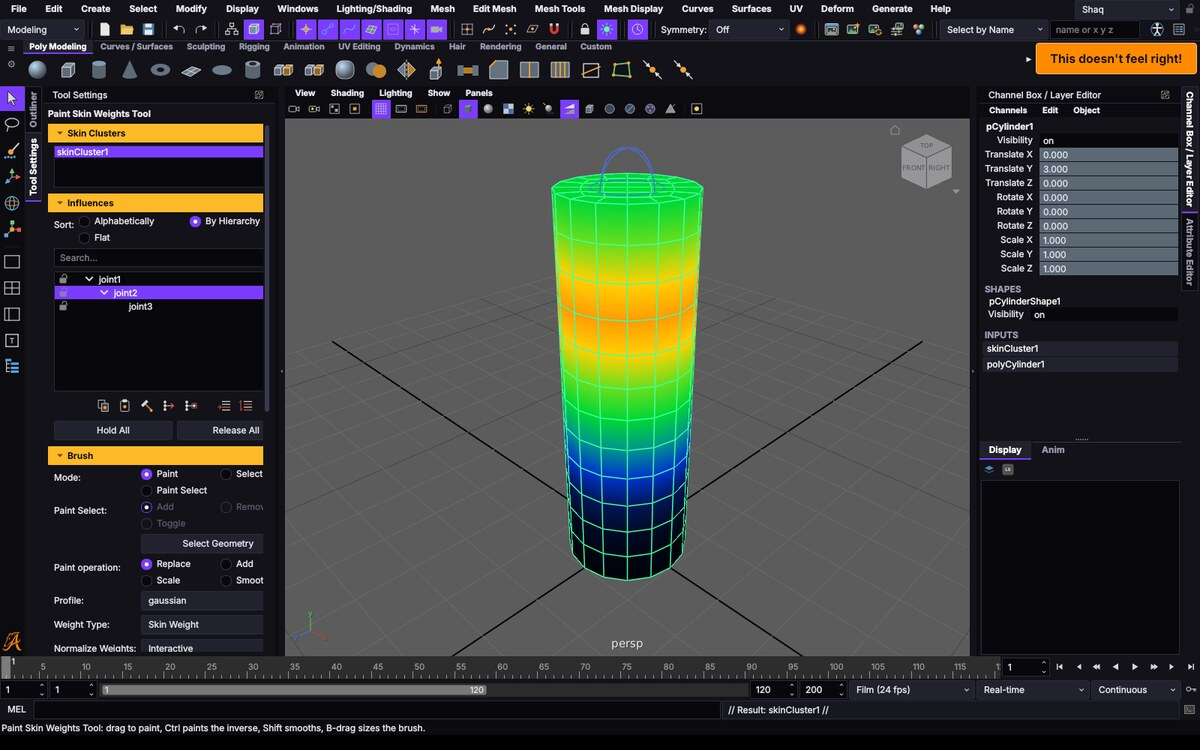
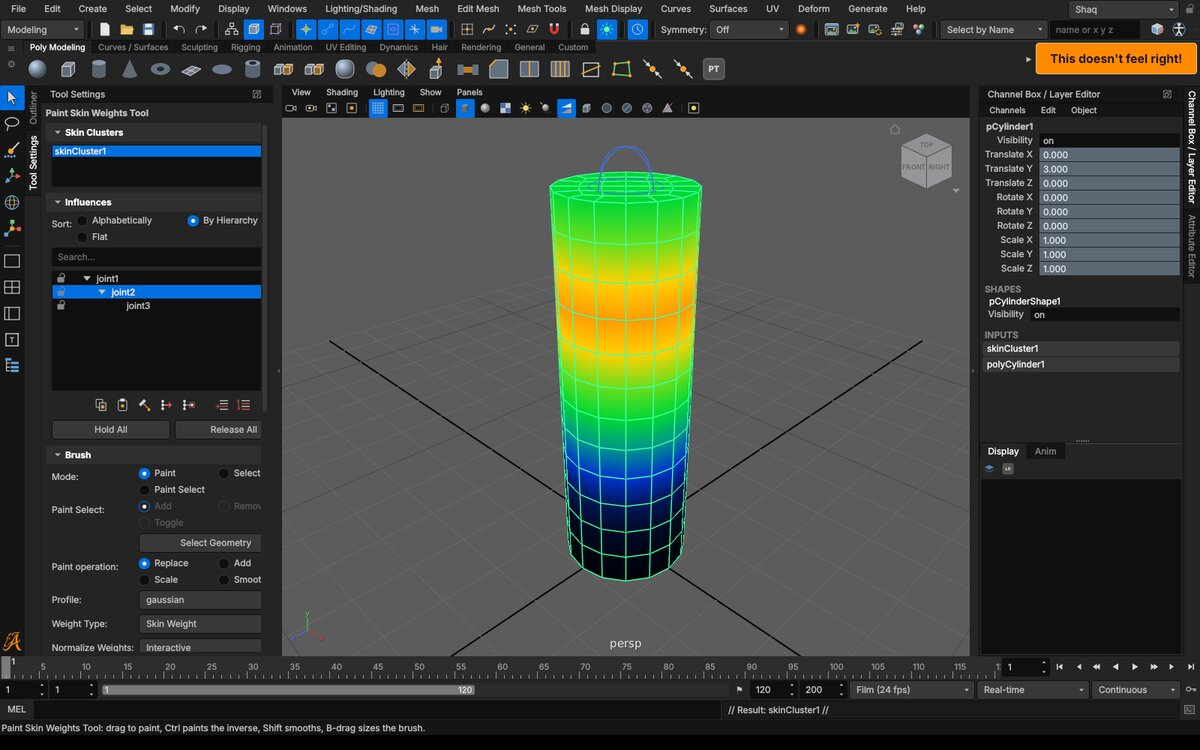
Themes renamed: TDI, Wavefront, Gibson, Krieger, Novacek, Kovacs, Hall, Keating, Hourcade, Nicolas, Stam, Buxton, Kurtenbach; Flav back to the first Carbon, Sebdvvv back to Studio 96, Shaq after Unreal Engine 5, DonnieAlex after Blender, AshT after Hello Kitty; README theme tables and screenshots

diff --git a/app/src/themes.cpp b/app/src/themes.cpp
@@ -145,9 +145,17 @@ QList<Theme> builtins() {
         t.c["border"] = QColor("#1f2a2e");
         l << t;
     }
-    // Flav: charcoal with tangerine, a geometric typeface, bold menus, borderless pills with big round corners.
+    // Flav: the first Carbon, blue-grey charcoal with teal, round corners and pill tabs.
     {
-        Theme t = tonal("carbon", "Flav", 20, 0.06, 13, "#ff7a1a");
+        Theme t = tonal("carbon", "Flav", 200, 0.04, 13, "#2fa59a");
+        t.radius = 8;
+        t.tabs = "pill";
+        t.padding = 4;
+        l << t;
+    }
+    // Kurtenbach: charcoal with tangerine, a geometric typeface, bold menus, borderless pills with big round corners.
+    {
+        Theme t = tonal("tangerine", "Kurtenbach", 20, 0.06, 13, "#ff7a1a");
         t.font = QStringList{"Montserrat", "Poppins", "Futura", "Century Gothic", "Avenir Next", "Avenir", "URW Gothic", "Gill Sans", "Verdana"};
         t.point_size = 9;
         t.menu_bold = true;
@@ -161,9 +169,9 @@ QList<Theme> builtins() {
         t.c["hitext"] = QColor("#1a0d00");
         l << t;
     }
-    // KevinP: deep navy and gold, serif type with italic menus, round-topped tabs, gold-lettered section bars.
+    // Kovacs: deep navy and gold, serif type with italic menus, round-topped tabs, gold-lettered section bars.
     {
-        Theme t = tonal("midnight", "KevinP", 226, 0.5, 13, "#f2c14e");
+        Theme t = tonal("midnight", "Kovacs", 226, 0.5, 13, "#f2c14e");
         t.font = QStringList{"Georgia", "Charter", "Iowan Old Style", "Palatino Linotype", "Palatino", "Noto Serif", "DejaVu Serif", "Liberation Serif", "Times New Roman"};
         t.point_size = 10;
         t.menu_italic = true;
@@ -178,9 +186,28 @@ QList<Theme> builtins() {
         t.c["sectiontext"] = QColor("#f2c14e");
         l << t;
     }
-    // Shaq: near-black with a bold electric violet and gold, heavy section bars, crisp corners and bold menus.
+    // Shaq: the game engine editor of the 2020s in its dark scheme: near-black recessed panels, charcoal panels and
+    // headers, black entry fields, its bright blue for what is picked, Roboto, small round corners.
     {
         Theme t = hand("shaq", "Shaq",
+                       {{"window", "#242424"}, {"chrome", "#151515"}, {"base", "#0f0f0f"}, {"alt", "#1a1a1a"}, {"menu", "#1a1a1a"}, {"button", "#383838"}, {"hover", "#575757"},
+                        {"hi", "#0070e0"}, {"hitext", "#ffffff"}, {"text", "#c0c0c0"}, {"bright", "#ffffff"}, {"dim", "#808080"}, {"disabled", "#585858"}, {"border", "#0f0f0f"},
+                        {"handle", "#383838"}, {"section", "#2f2f2f"}, {"sectiontext", "#ffffff"}, {"light", "#444444"}, {"shadow", "#0a0a0a"},
+                        {"field", "#0f0f0f"}, {"fieldtext", "#c0c0c0"}});
+        t.font = QStringList{"Roboto", "Inter", "Segoe UI", "Noto Sans", "DejaVu Sans", "Arial"};
+        t.point_size = 9;
+        t.fill = "flat";
+        t.radius = 4;
+        t.border = 1;
+        t.tabs = "boxed";
+        t.arrows = "triangle";
+        t.scrollbar = "thin";
+        t.padding = 4;
+        l << t;
+    }
+    // Nicolas: near-black with a bold electric violet and gold, heavy section bars, crisp corners and bold menus.
+    {
+        Theme t = hand("violet", "Nicolas",
                        {{"window", "#121218"}, {"chrome", "#0b0b10"}, {"base", "#08080c"}, {"alt", "#17171f"}, {"menu", "#1a1a24"}, {"button", "#22222e"}, {"hover", "#2e2e3e"},
                         {"hi", "#7b3cff"}, {"hitext", "#ffffff"}, {"text", "#e6e6f0"}, {"bright", "#ffffff"}, {"dim", "#9a9ab0"}, {"disabled", "#55556a"}, {"border", "#2a2a3a"},
                         {"handle", "#3a3a50"}, {"section", "#fdb927"}, {"sectiontext", "#0b0b10"}, {"light", "#3a3a4e"}, {"shadow", "#000000"}});
@@ -193,11 +220,11 @@ QList<Theme> builtins() {
         t.padding = 4;
         l << t;
     }
-    // Martino: after Softimage XSI. Mid grey panels with darker header bars, light grey buttons with rounded corners, a
+    // TDI: after Softimage XSI. Mid grey panels with darker header bars, light grey buttons with rounded corners, a
     // soft top-to-bottom shade and a dark outline, pale grey fields with black type, rounded property page tabs, bold
     // black section labels on a darker bar, a pale blue for what is picked, Tahoma at 8 points.
     {
-        Theme t = hand("martino", "Martino",
+        Theme t = hand("martino", "TDI",
                        {{"window", "#a8a8a8"}, {"chrome", "#8e8e8e"}, {"base", "#d0d0d0"}, {"alt", "#c4c4c4"}, {"menu", "#c0c0c0"}, {"button", "#c6c6c6"}, {"hover", "#d6d6d6"},
                         {"hi", "#8fb0d9"}, {"hitext", "#000000"}, {"text", "#000000"}, {"bright", "#000000"}, {"dim", "#333333"}, {"disabled", "#707070"}, {"border", "#4c4c4c"},
                         {"handle", "#bcbcbc"}, {"section", "#8a8a8a"}, {"sectiontext", "#000000"}, {"light", "#e4e4e4"}, {"shadow", "#5c5c5c"},
@@ -215,9 +242,9 @@ QList<Theme> builtins() {
         t.padding = 2;
         l << t;
     }
-    // Boisvert: the Dracula scheme as its author publishes it (MIT), pink highlights, purple section bars, rounded type and very round corners.
+    // Keating: the Dracula scheme as its author publishes it (MIT), pink highlights, purple section bars, rounded type and very round corners.
     {
-        Theme t = hand("dracula", "Boisvert",
+        Theme t = hand("dracula", "Keating",
                        {{"window", "#282a36"}, {"chrome", "#21222c"}, {"base", "#1b1c24"}, {"alt", "#2c2e3c"}, {"menu", "#343746"}, {"button", "#44475a"}, {"hover", "#565a72"},
                         {"hi", "#ff79c6"}, {"hitext", "#1b1c24"}, {"text", "#f8f8f2"}, {"bright", "#ffffff"}, {"dim", "#a0a5c4"}, {"disabled", "#6272a4"}, {"border", "#16171e"},
                         {"handle", "#5a5e78"}, {"section", "#bd93f9"}, {"sectiontext", "#1b1c24"}});
@@ -250,9 +277,9 @@ QList<Theme> builtins() {
         t.padding = 2;
         l << t;
     }
-    // JGibson: deep forest green and lime, a humanist typeface, soft gradients.
+    // Gibson: deep forest green and lime, a humanist typeface, soft gradients.
     {
-        Theme t = tonal("graphite", "JGibson", 145, 0.32, 13, "#9be15d");
+        Theme t = tonal("graphite", "Gibson", 145, 0.32, 13, "#9be15d");
         t.font = QStringList{"Lato", "Open Sans", "Source Sans 3", "Source Sans Pro", "Fira Sans", "Calibri", "Noto Sans", "DejaVu Sans"};
         t.point_size = 9;
         t.fill = "gradient";
@@ -267,9 +294,9 @@ QList<Theme> builtins() {
         t.c["sectiontext"] = QColor("#c8f59e");
         l << t;
     }
-    // MNovacek: the Nord scheme as its author publishes it (MIT): frost blues, a geometric typeface, borderless, round-topped tabs.
+    // Novacek: the Nord scheme as its author publishes it (MIT): frost blues, a geometric typeface, borderless, round-topped tabs.
     {
-        Theme t = hand("nord", "MNovacek",
+        Theme t = hand("nord", "Novacek",
                        {{"window", "#3b4252"}, {"chrome", "#323946"}, {"base", "#2e3440"}, {"alt", "#3f4758"}, {"menu", "#434c5e"}, {"button", "#4c566a"}, {"hover", "#5a657c"},
                         {"hi", "#88c0d0"}, {"hitext", "#2e3440"}, {"text", "#d8dee9"}, {"bright", "#eceff4"}, {"dim", "#a3adbf"}, {"disabled", "#6c778c"}, {"border", "#272c36"},
                         {"handle", "#616d85"}, {"section", "#5e81ac"}, {"sectiontext", "#eceff4"}});
@@ -319,10 +346,10 @@ QList<Theme> builtins() {
         t.c["sectiontext"] = QColor("#1e1206");
         l << t;
     }
-    // The animation package of the mid 1990s on the workstations: grey panels, pink entry fields, bold italic menus,
-    // bevelled buttons and round-topped tabs.
+    // Sebdvvv: the animation package of the mid 1990s on the workstations: grey panels, pink entry fields, bold italic
+    // menus, bevelled buttons and round-topped tabs.
     {
-        Theme t = hand("studio96", "sebdvvv",
+        Theme t = hand("studio96", "Sebdvvv",
                        {{"window", "#a0a0a0"}, {"chrome", "#949494"}, {"base", "#bdbdbd"}, {"alt", "#b4b4b4"}, {"menu", "#b0b0b0"}, {"button", "#b2b2b2"}, {"hover", "#c2c2c2"},
                         {"hi", "#5a6f92"}, {"text", "#000000"}, {"bright", "#000000"}, {"dim", "#2c2c2c"}, {"disabled", "#6e6e6e"}, {"border", "#2e2e2e"}, {"handle", "#b2b2b2"},
                         {"light", "#ececec"}, {"shadow", "#5e5e5e"}, {"field", "#eab4b4"}, {"fieldtext", "#000000"}});
@@ -338,9 +365,10 @@ QList<Theme> builtins() {
         t.padding = 2;
         l << t;
     }
-    // The workstation desktop the first release of the reference ran on: light grey, deep bevels, upright Helvetica.
+    // Wavefront: the workstation desktop the first release of the reference ran on: light grey, deep bevels, upright
+    // Helvetica.
     {
-        Theme t = hand("workstation", "Cattingway",
+        Theme t = hand("workstation", "Wavefront",
                        {{"window", "#c2c2c2"}, {"chrome", "#b2b2b2"}, {"base", "#dedede"}, {"alt", "#d4d4d4"}, {"menu", "#cacaca"}, {"button", "#c6c6c6"}, {"hover", "#d2d2d2"},
                         {"hi", "#52709f"}, {"text", "#000000"}, {"bright", "#000000"}, {"dim", "#383838"}, {"disabled", "#7c7c7c"}, {"border", "#3c3c3c"}, {"handle", "#c6c6c6"},
                         {"light", "#f4f4f4"}, {"shadow", "#6c6c6c"}, {"field", "#e4e4e4"}, {"fieldtext", "#000000"}});
@@ -389,9 +417,28 @@ QList<Theme> builtins() {
         t.padding = 2;
         l << t;
     }
-    // The desktop of 1998: silver, white fields, navy selection, two-tone raised and sunken edges.
+    // DonnieAlex: the open source 3D suite of the 2020s: mid-dark grey regions with darker panel headers, grey widgets
+    // with soft round corners, near-black entry fields, its blue for what is on and picked, chevrons on the panels.
     {
-        Theme t = hand("classic98", "DonnieA",
+        Theme t = hand("classic98", "DonnieAlex",
+                       {{"window", "#303030"}, {"chrome", "#232323"}, {"base", "#1d1d1d"}, {"alt", "#2b2b2b"}, {"menu", "#181818"}, {"button", "#545454"}, {"hover", "#656565"},
+                        {"hi", "#4772b3"}, {"hitext", "#ffffff"}, {"text", "#e6e6e6"}, {"bright", "#ffffff"}, {"dim", "#a5a5a5"}, {"disabled", "#737373"}, {"border", "#191919"},
+                        {"handle", "#545454"}, {"section", "#3d3d3d"}, {"sectiontext", "#e6e6e6"}, {"light", "#5e5e5e"}, {"shadow", "#141414"},
+                        {"field", "#1d1d1d"}, {"fieldtext", "#e6e6e6"}});
+        t.font = QStringList{"Inter", "DejaVu Sans", "Segoe UI", "Noto Sans", "Arial"};
+        t.point_size = 9;
+        t.fill = "flat";
+        t.radius = 5;
+        t.border = 1;
+        t.tabs = "rounded";
+        t.arrows = "chevron";
+        t.scrollbar = "thin";
+        t.padding = 4;
+        l << t;
+    }
+    // Krieger: the desktop of 1998: silver, white fields, navy selection, two-tone raised and sunken edges.
+    {
+        Theme t = hand("desktop98", "Krieger",
                        {{"window", "#c0c0c0"}, {"chrome", "#c0c0c0"}, {"base", "#ffffff"}, {"alt", "#f4f4f4"}, {"menu", "#c0c0c0"}, {"button", "#c0c0c0"}, {"hover", "#c0c0c0"},
                         {"hi", "#000080"}, {"text", "#000000"}, {"bright", "#000000"}, {"dim", "#404040"}, {"disabled", "#808080"}, {"border", "#000000"}, {"handle", "#c0c0c0"},
                         {"light", "#ffffff"}, {"shadow", "#808080"}, {"field", "#ffffff"}, {"fieldtext", "#000000"}});
@@ -405,9 +452,29 @@ QList<Theme> builtins() {
         t.padding = 2;
         l << t;
     }
-    // AshT: pale sky blue with navy, a humanist typeface, navy section bars, round pills.
+    // AshT: the white kitten with the red bow: candy pink and white, its red for what is picked and on the section bars,
+    // the yellow of its nose for hover, black outlines, rounded type and the roundest pills.
     {
-        Theme t = tonal("ash", "AshT", 205, 0.45, 86, "#0b3d91");
+        Theme t = hand("ash", "AshT",
+                       {{"window", "#ffd6e6"}, {"chrome", "#ffc2da"}, {"base", "#ffffff"}, {"alt", "#fff0f6"}, {"menu", "#ffffff"}, {"button", "#ffffff"}, {"hover", "#ffe680"},
+                        {"hi", "#e60023"}, {"hitext", "#ffffff"}, {"text", "#2b1a1f"}, {"bright", "#000000"}, {"dim", "#7a5562"}, {"disabled", "#c79aab"}, {"border", "#1a1a1a"},
+                        {"handle", "#ff8fb8"}, {"section", "#e60023"}, {"sectiontext", "#ffffff"}, {"light", "#ffffff"}, {"shadow", "#d98aa8"},
+                        {"field", "#ffffff"}, {"fieldtext", "#2b1a1f"}});
+        t.font = QStringList{"Nunito", "Varela Round", "Quicksand", "Comfortaa", "Arial Rounded MT Bold", "Segoe UI", "Noto Sans", "Verdana"};
+        t.point_size = 9;
+        t.menu_bold = true;
+        t.fill = "flat";
+        t.radius = 12;
+        t.border = 2;
+        t.tabs = "pill";
+        t.arrows = "chevron";
+        t.scrollbar = "thin";
+        t.padding = 5;
+        l << t;
+    }
+    // Hourcade: pale sky blue with navy, a humanist typeface, navy section bars, round pills.
+    {
+        Theme t = tonal("sky", "Hourcade", 205, 0.45, 86, "#0b3d91");
         t.font = QStringList{"Lato", "Open Sans", "Source Sans 3", "Source Sans Pro", "Fira Sans", "Calibri", "Noto Sans", "DejaVu Sans"};
         t.point_size = 9;
         t.fill = "flat";
@@ -421,9 +488,9 @@ QList<Theme> builtins() {
         t.c["sectiontext"] = QColor("#ffffff");
         l << t;
     }
-    // Buffin: the Solarized light scheme as its author publishes it (MIT), with its cyan and magenta: serif type, round-topped tabs.
+    // Buxton: the Solarized light scheme as its author publishes it (MIT), with its cyan and magenta: serif type, round-topped tabs.
     {
-        Theme t = hand("solarized-light", "Buffin",
+        Theme t = hand("solarized-light", "Buxton",
                        {{"window", "#eee8d5"}, {"chrome", "#e4ddc8"}, {"base", "#fdf6e3"}, {"alt", "#f5efdc"}, {"menu", "#fdf6e3"}, {"button", "#e6dfca"}, {"hover", "#d9d1b9"},
                         {"hi", "#2aa198"}, {"hitext", "#fdf6e3"}, {"text", "#586e75"}, {"bright", "#073642"}, {"dim", "#839496"}, {"disabled", "#a7a99a"}, {"border", "#c9c1a8"},
                         {"handle", "#b8b09a"}, {"section", "#d33682"}, {"sectiontext", "#fdf6e3"}});
@@ -437,9 +504,9 @@ QList<Theme> builtins() {
         t.padding = 3;
         l << t;
     }
-    // Royhall: cream paper and red ink, typewriter type, bold menus, square corners, black section bars.
+    // Hall: cream paper and red ink, typewriter type, bold menus, square corners, black section bars.
     {
-        Theme t = tonal("paper", "Royhall", 42, 0.55, 91, "#c0392b");
+        Theme t = tonal("paper", "Hall", 42, 0.55, 91, "#c0392b");
         t.font = QStringList{"Courier Prime", "American Typewriter", "Courier New", "Courier", "Nimbus Mono PS", "Liberation Mono", "DejaVu Sans Mono"};
         t.point_size = 10;
         t.menu_bold = true;
@@ -456,9 +523,9 @@ QList<Theme> builtins() {
         t.c["bright"] = QColor("#000000");
         l << t;
     }
-    // Jostam: mint and teal, rounded type, gradients, the roundest corners and the most room.
+    // Stam: mint and teal, rounded type, gradients, the roundest corners and the most room.
     {
-        Theme t = tonal("lilac", "Jostam", 160, 0.4, 95, "#0f9d8a");
+        Theme t = tonal("lilac", "Stam", 160, 0.4, 95, "#0f9d8a");
         t.font = QStringList{"Nunito", "Varela Round", "Quicksand", "Comfortaa", "Arial Rounded MT Bold", "Segoe UI", "Noto Sans", "Verdana"};
         t.point_size = 9;
         t.fill = "gradient";
@@ -474,13 +541,15 @@ QList<Theme> builtins() {
     }
     // Buttons, panel edges and title bars: each theme its own, so no two built-ins draw the same.
     static const QHash<QString, std::array<const char*, 3>> shape_of{
-        {"obsidian", {"outline", "line", "underline"}},  {"carbon", {"pill", "rounded", "accent"}},      {"midnight", {"glossy", "groove", "tab"}},
-        {"shaq", {"chunky", "thick", "inverse"}},        {"martino", {"soft", "line", "gradient"}},      {"dracula", {"pill", "rounded", "tab"}},
+        {"obsidian", {"outline", "line", "underline"}},  {"tangerine", {"pill", "rounded", "accent"}},   {"midnight", {"glossy", "groove", "tab"}},
+        {"violet", {"chunky", "thick", "inverse"}},      {"martino", {"soft", "line", "gradient"}},      {"dracula", {"pill", "rounded", "tab"}},
         {"solarized-dark", {"auto", "bevel", "accent"}}, {"graphite", {"soft", "shadow", "gradient"}},   {"nord", {"underline", "none", "underline"}},
-        {"slate", {"glossy", "shadow", "inverse"}},      {"pewter", {"auto", "bevel", "gradient"}},      {"studio96", {"auto", "groove", "auto"}},
-        {"workstation", {"auto", "bevel", "auto"}},      {"poweranimator", {"auto", "groove", "gradient"}}, {"alias", {"auto", "line", "inverse"}},
-        {"classic98", {"auto", "bevel", "auto"}},        {"ash", {"outline", "rounded", "accent"}},      {"solarized-light", {"inset", "line", "tab"}},
-        {"paper", {"chunky", "shadow", "underline"}},    {"lilac", {"pill", "rounded", "gradient"}}};
+        {"slate", {"glossy", "shadow", "inverse"}},      {"pewter", {"auto", "bevel", "gradient"}},      {"workstation", {"auto", "bevel", "auto"}},
+        {"poweranimator", {"auto", "groove", "gradient"}}, {"alias", {"auto", "line", "inverse"}},       {"desktop98", {"auto", "bevel", "auto"}},
+        {"sky", {"outline", "rounded", "accent"}},       {"solarized-light", {"inset", "line", "tab"}},  {"paper", {"chunky", "shadow", "underline"}},
+        {"lilac", {"pill", "rounded", "gradient"}},      {"shaq", {"auto", "line", "auto"}},             {"classic98", {"auto", "rounded", "auto"}},
+        {"ash", {"pill", "rounded", "tab"}}};
+    // Flav (carbon) and Sebdvvv (studio96) as they first were: no button, frame or title style of their own.
     for (Theme& t : l) {
         const auto it = shape_of.find(t.id);
         if (it == shape_of.end()) continue;

diff --git a/README.md b/README.md
@@ -475,9 +475,10 @@ Node Editor:
 
 The reference has one look, and Aztek Classic is it, the default. The **Themes** box at the top right of the menu bar
 changes the interface's colours, fonts and the shapes of its buttons, fields, tabs, arrows and scroll bars, live, and
-Aztek keeps the choice. They are listed from darkest to lightest, and the icons turn dark on the light ones. Boisvert, MNovacek, Springer and Buffin are the Dracula, Nord and
-Solarized colour schemes as their authors publish them. The timeline and the drawn editors (Graph, Node and UV Editor, marking menus) keep their own
-colours.
+Aztek keeps the choice. They are listed from darkest to lightest, and the icons turn dark on the light ones. Keating,
+Novacek, Springer and Buxton are the Dracula, Nord and Solarized colour schemes as their authors publish them; Shaq
+follows Unreal Engine 5's editor, DonnieAlex Blender's, TDI Softimage XSI. The timeline and the drawn editors (Graph,
+Node and UV Editor, marking menus) keep their own colours.
 
 **Random!**, at the bottom of the box, makes a theme with every option at random, fonts included, and applies it: pick
 it again for another. It is kept as your Random theme until the next roll, so one you like can be opened in the editor
@@ -488,7 +489,7 @@ or bold menus and tabs, the fill (classic, flat or gradient), bevels (none, sing
 radius, border width, padding, the tab, arrow and scroll bar styles, the buttons (soft, glossy, outline, inset, chunky,
 underlined or pills), the edges round panels (line, groove, raised, thick, rounded or a drop shadow) and the panel title
 bars (gradient, underlined, a highlight stripe, inverse or a folder tab). Every built-in theme has its own mix of these;
-Martino follows Softimage XSI: grey panels with darker headers, light rounded buttons with a soft shade and a dark
+TDI follows Softimage XSI: grey panels with darker headers, light rounded buttons with a soft shade and a dark
 outline, rounded property tabs and Tahoma. Built-in themes stay as they are and saving makes a
 copy of your own, kept as JSON in `~/.aztek/themes`, which Import and Export pass around.
 
@@ -498,25 +499,29 @@ copy of your own, kept as JSON in `~/.aztek/themes`, which Import and Export pas
 
 | | | |
 |---|---|---|
-| ![Aztek Classic](docs/theme-classic.jpg) | ![Brinsmead](docs/theme-obsidian.jpg) | ![Flav](docs/theme-carbon.jpg) |
-| **Aztek Classic**: the reference's look, and the default | **Brinsmead**: pure black and electric cyan, monospaced type, square corners, cyan section bars | **Flav**: charcoal and tangerine, geometric type, bold menus, borderless pills with big round corners |
-| ![KevinP](docs/theme-midnight.jpg) | ![Boisvert](docs/theme-dracula.jpg) | ![Springer](docs/theme-solarized-dark.jpg) |
-| **KevinP**: deep navy and gold, serif type with italic menus, round-topped tabs | **Boisvert**: the Dracula scheme: pink highlights, purple section bars, rounded type, very round corners | **Springer**: Solarized dark with its yellow and orange: condensed type, single bevels, square edges |
-| ![JGibson](docs/theme-graphite.jpg) | ![MNovacek](docs/theme-nord.jpg) | ![Ozymok](docs/theme-slate.jpg) |
-| **JGibson**: forest green and lime, humanist type, soft gradients | **MNovacek**: the Nord scheme: frost blues, geometric type, borderless, round-topped tabs | **Ozymok**: plum and hot pink, Gill-style type with italic menus, gradient buttons with a single bevel |
-| ![Alias](docs/theme-alias.jpg) | ![PewterTureski](docs/theme-pewter.jpg) | ![Shaq](docs/theme-shaq.jpg) |
-| **Alias**: the late-90s animation package's dark scheme: slate panels, white section bars, fixed-width type | **PewterTureski**: warm pewter grey and orange, wide Verdana-style type, double bevels, orange section bars | **Shaq**: near-black with bold violet highlights and gold section bars |
+| ![Aztek Classic](docs/theme-classic.jpg) | ![Brinsmead](docs/theme-obsidian.jpg) | ![Nicolas](docs/theme-violet.jpg) |
+| **Aztek Classic**: the reference's look, and the default | **Brinsmead**: pure black and electric cyan, monospaced type, square corners, cyan section bars | **Nicolas**: near-black with bold violet highlights and gold section bars |
+| ![Flav](docs/theme-carbon.jpg) | ![Kurtenbach](docs/theme-tangerine.jpg) | ![Kovacs](docs/theme-midnight.jpg) |
+| **Flav**: blue-grey charcoal and teal, round corners, pill tabs | **Kurtenbach**: charcoal and tangerine, geometric type, bold menus, borderless pills with big round corners | **Kovacs**: deep navy and gold, serif type with italic menus, round-topped tabs |
+| ![Gibson](docs/theme-graphite.jpg) | ![Shaq](docs/theme-shaq.jpg) | ![Springer](docs/theme-solarized-dark.jpg) |
+| **Gibson**: forest green and lime, humanist type, soft gradients | **Shaq**: after Unreal Engine 5's editor: near-black and charcoal panels, black fields, its bright blue, Roboto | **Springer**: Solarized dark with its yellow and orange: condensed type, single bevels, square edges |
+| ![Ozymok](docs/theme-slate.jpg) | ![Keating](docs/theme-dracula.jpg) | ![DonnieAlex](docs/theme-classic98.jpg) |
+| **Ozymok**: plum and hot pink, Gill-style type with italic menus, gradient buttons with a single bevel | **Keating**: the Dracula scheme: pink highlights, purple section bars, rounded type, very round corners | **DonnieAlex**: after Blender: mid-dark grey regions, darker panel headers, grey rounded widgets, its blue |
+| ![Novacek](docs/theme-nord.jpg) | ![Alias](docs/theme-alias.jpg) | ![Tureski](docs/theme-pewter.jpg) |
+| **Novacek**: the Nord scheme: frost blues, geometric type, borderless, round-topped tabs | **Alias**: the late-90s animation package's dark scheme: slate panels, white section bars, fixed-width type | **Tureski**: warm pewter grey and orange, wide Verdana-style type, double bevels, orange section bars |
 
 ### Light
 
 | | | |
 |---|---|---|
-| ![sendvvv](docs/theme-studio96.jpg) | ![DonnieA](docs/theme-classic98.jpg) | ![Cattingway](docs/theme-workstation.jpg) |
-| **sendvvv**: the mid-90s workstation animation packages: pink fields, bold italic menus, bevels | **DonnieA**: silver and navy, two-tone bevels, 1998 | **Cattingway**: the light grey workstation desktop the reference first ran on |
-| ![Hourihan](docs/theme-poweranimator.jpg) | ![AshT](docs/theme-ash.jpg) | ![Buffin](docs/theme-solarized-light.jpg) |
-| **Hourihan**: light grey with mid grey fields and darker section bars, round-topped tabs | **AshT**: pale sky blue and navy, humanist type, navy section bars, round pills | **Buffin**: Solarized light with its cyan and magenta: serif type, round-topped tabs |
-| ![Royhall](docs/theme-paper.jpg) | ![Jostam](docs/theme-lilac.jpg) | ![Martino](docs/theme-martino.jpg) |
-| **Royhall**: cream paper and red ink, typewriter type, bold menus, square corners, black section bars | **Jostam**: mint and teal, rounded type, gradients, the roundest corners | **Martino**: after Softimage XSI: mid grey panels, pale fields, single bevels, square corners |
+| ![Sebdvvv](docs/theme-studio96.jpg) | ![TDI](docs/theme-martino.jpg) | ![Krieger](docs/theme-desktop98.jpg) |
+| **Sebdvvv**: the mid-90s workstation animation packages: pink fields, bold italic menus, bevels | **TDI**: after Softimage XSI: grey panels, light rounded buttons with a soft shade, pale fields, Tahoma | **Krieger**: silver and navy, two-tone bevels, 1998 |
+| ![Wavefront](docs/theme-workstation.jpg) | ![Hourihan](docs/theme-poweranimator.jpg) | ![Hourcade](docs/theme-sky.jpg) |
+| **Wavefront**: the light grey workstation desktop the reference first ran on | **Hourihan**: light grey with mid grey fields and darker section bars, round-topped tabs | **Hourcade**: pale sky blue and navy, humanist type, navy section bars, round pills |
+| ![Buxton](docs/theme-solarized-light.jpg) | ![Hall](docs/theme-paper.jpg) | ![AshT](docs/theme-ash.jpg) |
+| **Buxton**: Solarized light with its cyan and magenta: serif type, round-topped tabs | **Hall**: cream paper and red ink, typewriter type, bold menus, square corners, black section bars | **AshT**: after Hello Kitty: candy pink and white, red highlights and section bars, black outlines, rounded type |
+| ![Stam](docs/theme-lilac.jpg) |  |  |
+| **Stam**: mint and teal, rounded type, gradients, the roundest corners |  |  |
 
 ## Install
 
